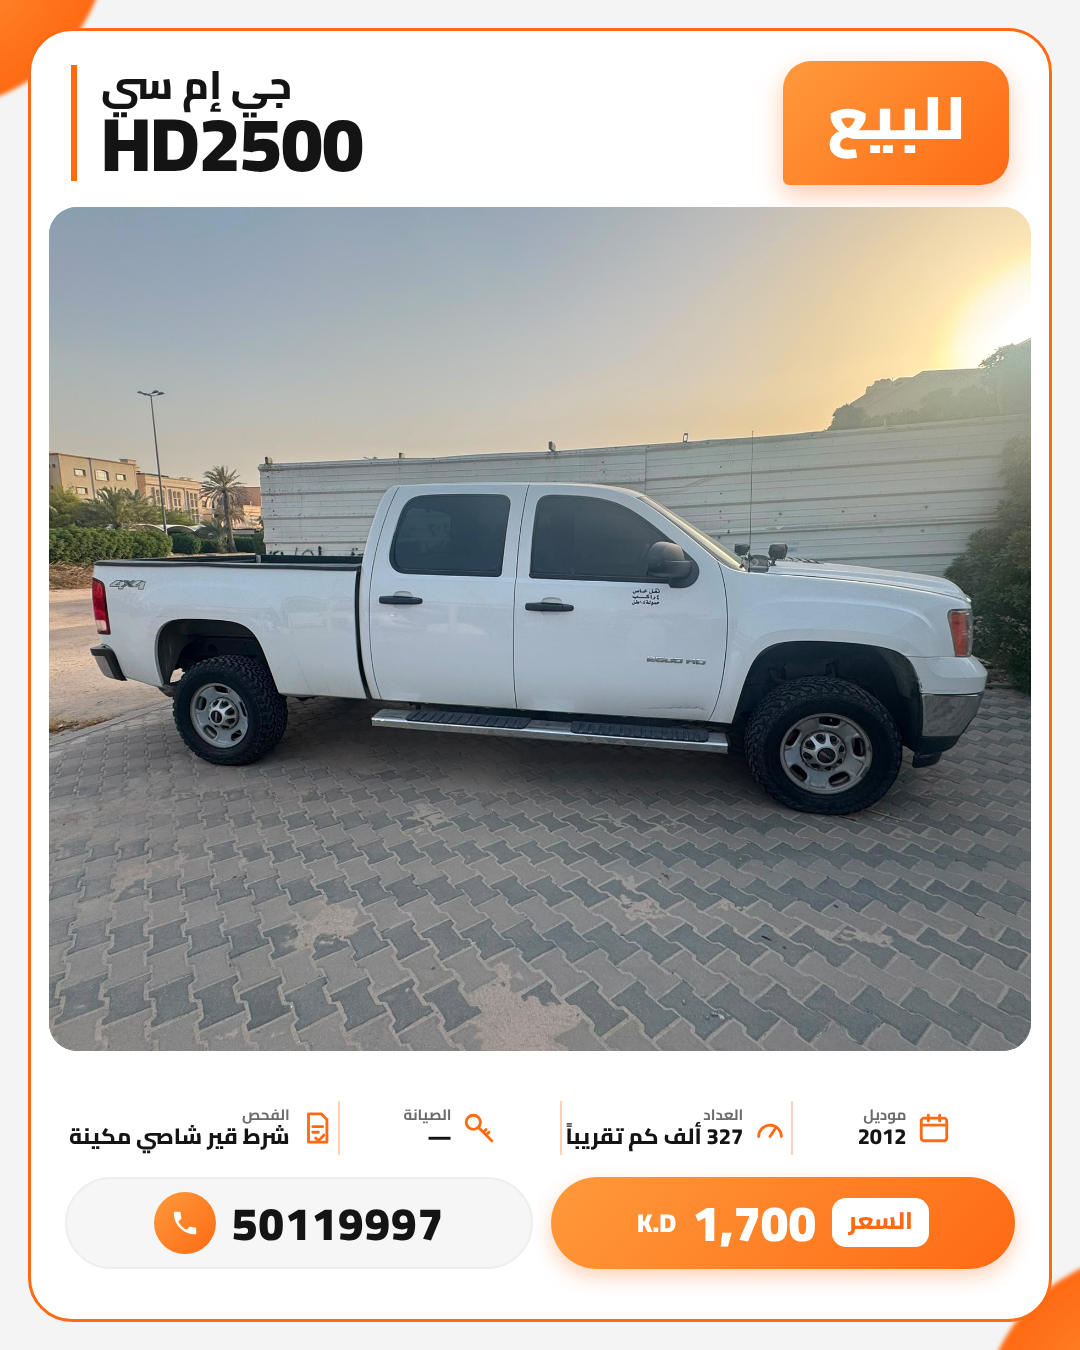
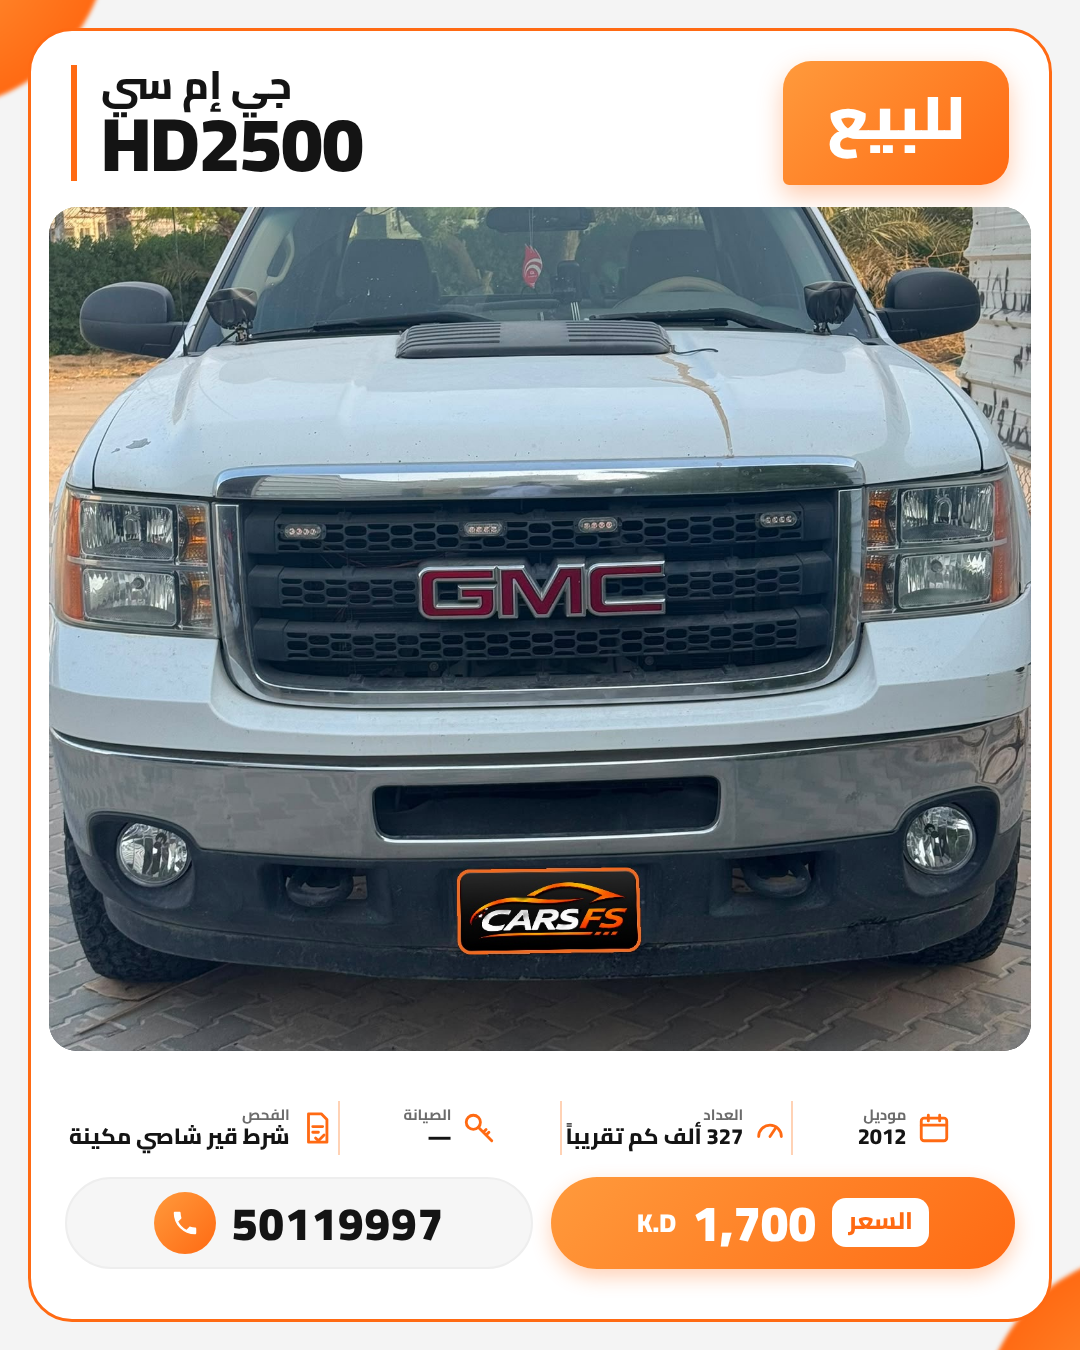
Template uses the first photo the owner sends; GMC post uses front photo
Claude-Session: https://claude.ai/code/session_01KnexkFeKie1QkgYCFz3yRY

diff --git a/CLAUDE.md b/CLAUDE.md
@@ -15,7 +15,7 @@ The owner's workflow: they send car photos + text here, and Claude does everythi
 1. Check the photos are original, with no AI edits to the car or background. If they are edited, tell the owner and stop until originals arrive.
 2. Cover the number plate with the CARS FS sticker at the plate's angle (`tools/plate/`):
    `cd tools/plate && node mksticker.js W H && python3 plate.py in.jpg out.jpg TLx,TLy TRx,TRy BRx,BRy BLx,BLy`
-3. Put the clearest photo in the template. All other photos go in the post as originals. Post images are 1080×1350, stories 1080×1920.
+3. Put the **first photo the owner sends** in the template (always, not the "clearest"). All other photos go in the post as originals. Post images are 1080×1350, stories 1080×1920.
 4. Show the owner the design and the full post. **Nothing is published before the word «موافق».**
 5. Schedule on Instagram + TikTok via Metricool (brand `cars__fs`, blogId 7783138, timezone Asia/Kuwait). TikTok title = first line of the caption.
    Instagram story works via Metricool; TikTok story and Snapchat are manual.
